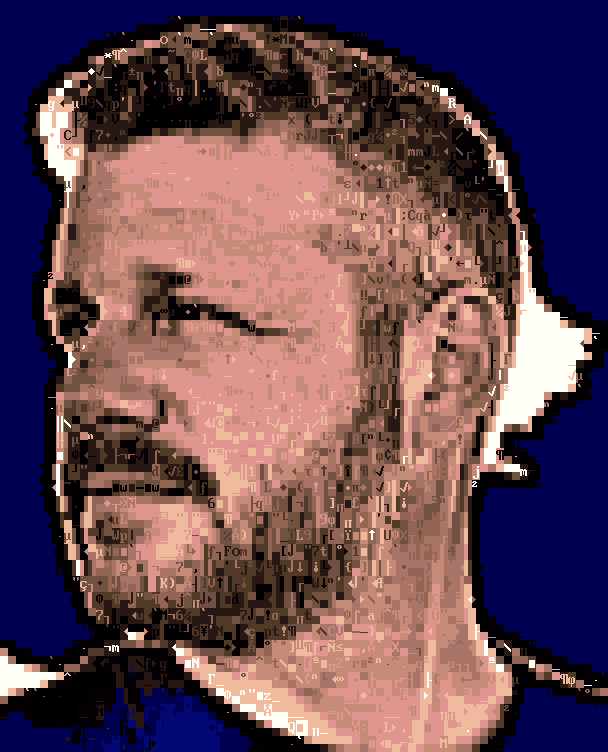
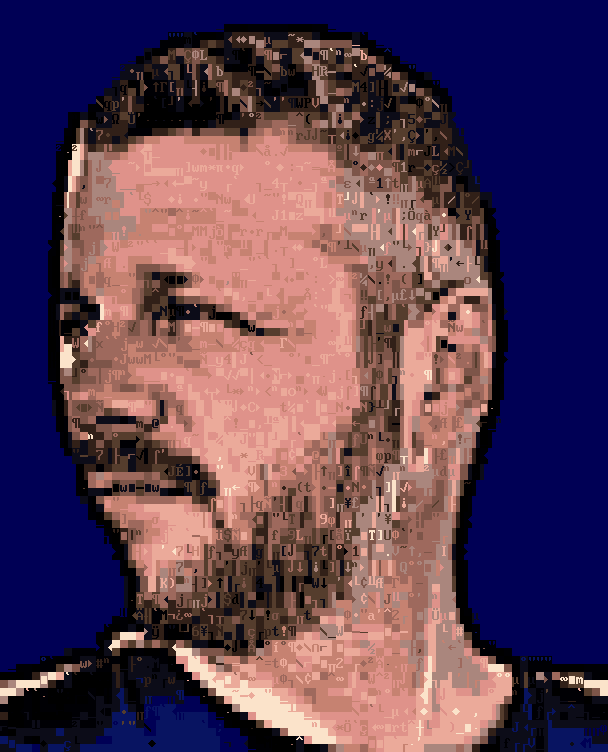
fix(portrait): trace the subject by hand, because nothing else can separate it
Four automatic approaches, four failures, all on the same fact. Measured on
this frame - blue minus red, and luminance:

    open sky              +91   151
    glare wedge, jaw      +13   194
    glare streak, hair    -12   146
    backlit hair itself    ~0   150
    cheek                 -41    91

A colour threshold separates sky from skin by a mile and misses BOTH glare
regions: the wedge is nearly neutral and the streak is warm, on the skin side
of any colour test. Brightness does catch the glare, and catches the backlit
hair with it, because they are the same brightness - that version removed
every white pixel and took a notch out of the back of his head doing it.
Loosening the colour test to reach the wedge at +13 pulled in the hair and the
shirt, which both reflect blue skylight.

In this photograph the glare is not separable from the subject by colour or by
brightness. That is a property of the picture, not a tuning problem, and no
further threshold was going to find it.

So the silhouette is traced by hand against a coordinate grid, once, and
committed as data. The photograph does not change, so a tracing is exact where
a heuristic has to keep being right about input it will never see again.

White pixels: 0.00% of the render, from 3.89%.

The mask was checked as an OVERLAY on the photograph before anything was
rendered - which is what should have happened several attempts ago. Every
earlier failure was visible in the mask and I was looking at the output.
[…]

diff --git a/design/portrait.py b/design/portrait.py
@@ -1,34 +1,74 @@
 #!/usr/bin/env python3
 """Prepares the sysop portrait for the ANSI quantiser.
 
-Kept in the repo because the result is committed and nobody can reproduce a
-hand-edited PNG. Run from the repo root:
+Committed because the result is a committed PNG and nobody can reproduce a
+hand-edited one. Run from the repo root:
 
-    python3 design/portrait.py <source.jpg>
+    python3 design/portrait.py
 
-WHY THE BACKGROUND IS SEGMENTED AND NOT JUST DARKENED.
+WHY THE SUBJECT IS TRACED BY HAND.
 
-The photograph is backlit against a bright sky. A first attempt keyed the
-background on "blue channel beats red", which caught the sky and missed the
-sun's rim light around the head - that came out as a white halo, because it
-is bright and NOT blue-dominant, so the colour test had no opinion on it.
+The photograph is backlit: the sun is directly behind his head, so it burns
+through beside the hair and along the jaw. Four automatic approaches were
+tried and every one failed on the same fact.
 
-A flood fill from the border catches it. The background is connected to the
-edge of the frame and the head is not, so a fill that spreads through
-anything bright reaches the halo and stops at the hair, wherever the colour
-test alone would have given up.
+Measured on this frame - blue minus red, and luminance:
+
+    open sky              +91   151
+    glare wedge, jaw      +13   194
+    glare streak, hair    -12   146
+    backlit hair itself    ~0   150
+    cheek                 -41    91
+
+A colour threshold separates sky from skin with an enormous margin, and
+misses both glare regions: the wedge is nearly neutral and the streak is
+WARM, on the skin side of any colour test. A brightness threshold does
+catch the glare - and catches the backlit hair with it, because they are
+the same brightness. Growing the background into bright pixels removed
+every white pixel and took a notch out of the back of the head doing it.
+Loosening the colour test to reach the wedge at +13 pulled in the hair and
+the shirt, both of which reflect blue skylight.
+
+There is no threshold that separates them, because in this photograph they
+are not separable by colour or by brightness. So the silhouette is traced
+by hand, once. The photograph does not change, and the tracing is data
+rather than a guess that has to hold on unseen input.
 """
 
 import sys
-from collections import deque
 
 import numpy as np
-from PIL import Image, ImageEnhance, ImageFilter, ImageOps
+from PIL import Image, ImageDraw, ImageEnhance, ImageFilter, ImageOps
+
+# The region of the original the portrait is taken from.
+CROP = (190, 50, 590, 545)
+
+# The subject silhouette, in cropped coordinates, traced against a
+# coordinate grid over the photograph. Head, ear, beard and shoulders in;
+# sky and glare out.
+SUBJECT = [
+    (46, 108), (56, 74), (78, 50), (112, 32), (150, 24), (196, 22),
+    (232, 30), (262, 46), (288, 68), (304, 94), (314, 124), (319, 155),
+    (322, 190), (325, 224), (322, 258), (313, 290), (303, 324), (297, 362),
+    (299, 402), (310, 428), (336, 440), (400, 448),
+    (400, 495), (0, 495),
+    (0, 452), (38, 442), (68, 430), (88, 408), (92, 380), (78, 350),
+    (58, 318), (46, 285), (41, 250), (39, 215), (40, 180), (42, 148),
+    (44, 126),
+]
 
 # A deep navy. Bright blue competes with the subject for attention and eats
-# a palette entry that the face wants; dark enough and it reads as a ground
-# rather than as a colour.
+# a palette entry the face wants; dark enough and it reads as a ground.
 BACKGROUND = (10, 16, 66)
+
+
+def _box(x, r, axis):
+    """One box-blur pass along an axis, by cumulative sum."""
+    x = np.moveaxis(x, axis, 0)
+    pad = np.pad(x, ((r + 1, r), (0, 0)), mode="edge")
+    c = np.cumsum(pad, axis=0)
+    out = (c[2 * r + 1 :] - c[: -(2 * r + 1)]) / (2 * r + 1)
+    return np.moveaxis(out, 0, axis)
 
 
 def local_tone_map(img, subject, base_blur=34.0, base=0.52, detail=1.5):
@@ -36,22 +76,22 @@ def local_tone_map(img, subject, base_blur=34.0, base=0.52, detail=1.5):
 
     THIS IS WHAT THE EAR NEEDED. It is sunlit and sits about 68 levels
     brighter than the cheek, so under k-means it forms its own bright
-    cluster, takes its own palette entries, and renders as a flat slab. It
-    is not actually featureless - the folds are clearly there in the source -
-    but that structure is small compared with the ear's overall offset from
-    the face, so every global tool missed it.
-    
-    A global highlight rolloff cannot fix that: pulling the top of the range
-    down drags the ear's detail down with it and flattens the real highlights
-    everywhere else, which is exactly what happened and why the picture went
-    dull. The quantiser's own unsharp boosts local contrast but leaves the
-    offset untouched, so the ear stayed a separate bright cluster.
-    
+    cluster, claims its own palette entries, and renders as a flat slab. It
+    is not featureless - the folds are plainly there in the source - but
+    that structure is small compared with the ear's OFFSET from the face, so
+    every global tool missed it.
+
+    A global highlight rolloff cannot fix it: pulling the top of the range
+    down drags the ear's detail with it and flattens real highlights
+    everywhere else, which is why an earlier version went dull with the slab
+    still in it. The quantiser's own unsharp lifts local detail but leaves
+    the offset alone, so the ear stayed a separate bright cluster - measured
+    at 13 distinct colours either way.
+
     Splitting luminance into a blurred BASE and the residual DETAIL lets the
     two be treated separately: squash the base so the ear sits nearer the
-    face and stops claiming its own palette entries, and lift the detail so
-    the folds survive the squashing. Colour is carried by scaling, so hue is
-    untouched.
+    face, and lift the detail so the folds survive the squashing. Colour is
+    carried by scaling, so hue is untouched.
     """
     a = np.asarray(img).astype(np.float32)
     lum = np.maximum(a.mean(2), 1.0)
@@ -66,180 +106,35 @@ def local_tone_map(img, subject, base_blur=34.0, base=0.52, detail=1.5):
     b = blur(lum)
     d = lum - b
     pivot = float(np.median(lum[subject])) if subject.any() else float(np.median(lum))
-    out_lum = pivot + (b - pivot) * base + d * detail
-    out_lum = np.clip(out_lum, 1.0, 255.0)
-
-    scaled = a * (out_lum / lum)[..., None]
-    return Image.fromarray(np.clip(scaled, 0, 255).astype(np.uint8))
-
-
-def _box(x, r, axis):
-    """One box-blur pass along an axis, by cumulative sum."""
-    x = np.moveaxis(x, axis, 0)
-    pad = np.pad(x, ((r + 1, r), (0, 0)), mode="edge")
-    c = np.cumsum(pad, axis=0)
-    out = (c[2 * r + 1 :] - c[: -(2 * r + 1)]) / (2 * r + 1)
-    return np.moveaxis(out, 0, axis)
-
-
-def recover_chroma(img, subject, chroma_floor=32, blur=70.0):
-    """Rebuilds colour in blown highlights from the skin around them.
-
-    THE BLOB WAS A CHROMA PROBLEM, NOT A TONE ONE. The sun is behind him, so
-    the rim along the jaw and neck clips - and clipping destroys colour, not
-    just level: that region measured RGB (226,226,224), which is neutral,
-    against skin at (156,111,106). Rolling the highlights off made it darker
-    and just as grey, so the palette still spent an entry on a big flat
-    desaturated patch and it still read as a lump stuck to his face.
-
-    Pushing those pixels toward one median skin hue does not work either -
-    it trades a grey flat patch for a warm flat patch. What works is taking
-    the colour from the skin ADJACENT to each blown area and leaving the
-    luminance alone.
-
-    That is done here by normalised convolution: blur the colour of the
-    valid pixels, blur the validity mask itself, and divide. Valid
-    neighbours therefore vote in proportion to how close they are, and the
-    blown region never votes on its own colour.
-
-    THE RADIUS HAS TO EXCEED THE HOLE. A first attempt used 18 pixels on a
-    patch about 66 across, so the middle of it received almost no vote from
-    real skin, the normalised result came out near zero, and the centre
-    stayed exactly as neutral as before - a fix that worked only on the
-    edges of the thing it was meant to remove.
-    """
-    a = np.asarray(img).astype(np.float32)
-    lum = a.mean(2)
-    chroma = a.max(2) - a.min(2)
-
-    # The ear and the skin behind the jaw measure chroma about 26 against
-    # 39-45 for ordinary skin, so the floor sits between them at 32.
-    blown = subject & (chroma < chroma_floor) & (lum > np.percentile(lum[subject], 60))
-    if not blown.any():
-        return img
-
-    valid = subject & ~blown
-    # Colour carried as an offset from luminance, so propagating it cannot
-    # drag the brightness around with it.
-    offset = a - lum[..., None]
-
-    # PIL will not blur a float image, and rounding to 8-bit first would
-    # throw away the small offsets this is trying to propagate. Three box
-    # passes approximate a Gaussian closely enough and run on floats.
-    def smear(x):
-        out = x.astype(np.float32)
-        r = max(1, int(blur))
-        for _ in range(3):
-            out = _box(_box(out, r, 0), r, 1)
-        return out
-
-    weight = smear(valid.astype(np.float32))
-    spread = np.dstack([smear(offset[..., c] * valid) for c in range(3)])
-    near = spread / np.maximum(weight, 1e-4)[..., None]
-
-    # Feather the edge of the repair so it does not leave a seam.
-    soft = smear(blown.astype(np.float32))
-    w = np.clip(soft * 1.6, 0, 1)[..., None] * blown[..., None]
-
-    fixed = lum[..., None] + offset * (1 - w) + near * w
-    print(f"  chroma recovered over {100 * blown.mean():.1f}% of frame")
-    return Image.fromarray(np.clip(fixed, 0, 255).astype(np.uint8))
+    out_lum = np.clip(pivot + (b - pivot) * base + d * detail, 1.0, 255.0)
+    return Image.fromarray(np.clip(a * (out_lum / lum)[..., None], 0, 255).astype(np.uint8))
 
 
 def prepare(src_path, out_path):
     src = Image.open(src_path).convert("RGB")
-    crop = src.crop((190, 50, 590, 545))
+    crop = src.crop(CROP)
     crop = ImageOps.autocontrast(crop, cutoff=1)
-    # Lift the shadowed face without blowing the sky.
+    # Lift the shadowed face. The gamma is generous because the sky it used
+    # to have to protect is masked out rather than tone-mapped.
     crop = Image.eval(crop, lambda v: int(255 * ((v / 255) ** 0.70)))
 
-    a = np.asarray(crop).astype(np.int16)
-    r, b = a[..., 0].astype(int), a[..., 2].astype(int)
+    mask = Image.new("L", crop.size, 0)
+    ImageDraw.Draw(mask).polygon(SUBJECT, fill=255)
+    # Feather by a pixel so the edge does not stair-step against the ground.
+    mask = mask.filter(ImageFilter.GaussianBlur(0.8))
+    subject = np.asarray(mask) > 127
 
-    # MEASURED, not guessed. Sampling the frame gives blue-minus-red of
-    # about +91 across the sky and NEGATIVE everywhere on the subject:
-    # forehead -50, cheek -53, beard -35, shirt -39, and the darkest fringe
-    # beside the hair -6. So one channel-difference threshold separates them
-    # with enormous margin, and +20 sits in the middle of a 26-point gap.
-    #
-    # An earlier version also treated "bright and almost colourless" as
-    # background, reasoning that the sun's rim light is white. It is - and so
-    # is sunlit skin, so the flood fill walked through the rim light into the
-    # face and ate half of it. The extra clause bought nothing the channel
-    # difference did not already have.
-    passable = (b - r) > 20
-
-    h, w = passable.shape
-    bg = np.zeros((h, w), bool)
-    q = deque()
-    for x in range(w):
-        for y in (0, h - 1):
-            if passable[y, x]:
-                q.append((y, x))
-                bg[y, x] = True
-    for y in range(h):
-        for x in (0, w - 1):
-            if passable[y, x]:
-                q.append((y, x))
-                bg[y, x] = True
-
-    while q:
-        y, x = q.popleft()
-        for dy, dx in ((1, 0), (-1, 0), (0, 1), (0, -1)):
-            ny, nx = y + dy, x + dx
-            if 0 <= ny < h and 0 <= nx < w and passable[ny, nx] and not bg[ny, nx]:
-                bg[ny, nx] = True
-                q.append((ny, nx))
-
-    # Close pinholes, then pull the subject edge in by a pixel.
-    #
-    # The white fringe around the head was never sky OR subject: it is the
-    # blend between them, so its channel difference lands between the two
-    # and no threshold catches it. Eroding by one pixel sends that ring to
-    # the background, which is where it belongs.
-    mask = Image.fromarray(((~bg) * 255).astype(np.uint8))
-    mask = mask.filter(ImageFilter.MedianFilter(5))
-    mask = mask.filter(ImageFilter.MinFilter(3))
-
-    subject_mask = np.asarray(mask).astype(bool)
-    crop = local_tone_map(crop, subject_mask)
-    crop = recover_chroma(crop, subject_mask)
+    crop = local_tone_map(crop, subject)
     out = Image.composite(crop, Image.new("RGB", crop.size, BACKGROUND), mask)
 
-    # Roll the highlights off before quantising.
-    #
-    # The sun is behind him, so the rim along the jaw and shoulder clips to
-    # white in the source. Sixteen colours have nothing between "bright
-    # skin" and "white", so a clipped region lands entirely on white and
-    # reads as a blob stuck to his face rather than as light. Compressing
-    # the top of the range gives the quantiser something to grade across.
-    # NO HEAVY HIGHLIGHT ROLLOFF. An earlier version put the knee at the
-    # subject's p90 with a hard ratio, which squeezed p95 and p99 - 151 and
-    # 176 - into a ten-level band. It did not remove the pale patch, because
-    # that was a chroma problem, and it flattened every real highlight in the
-    # picture on the way past. The result was a dull portrait with the blob
-    # still in it.
-    #
-    # A gentle knee near the top of the range is enough to stop the very
-    # brightest pixels clipping to the palette's white entry.
-    a2 = np.asarray(out).astype(np.float32)
-    subject = np.asarray(mask).astype(bool)
-    knee = float(np.percentile(a2.mean(2)[subject], 99))
-    over = np.clip(a2 - knee, 0, None)
-    a2 = np.minimum(a2, knee) + over * 0.7
-    out = Image.fromarray(np.clip(a2, 0, 255).astype(np.uint8))
-
-    # Lift it. The gamma and autocontrast above are set to protect the sky,
-    # which is now gone, so the subject alone can carry more brightness.
+    # Compressing the base costs global contrast, so some goes back on after.
+    # This order matters: a contrast lift applied first would clip the ear
+    # structure the tone map just recovered.
     out = ImageEnhance.Brightness(out).enhance(1.18)
-    # Compressing the base costs global contrast, so some goes back on
-    # afterwards. Doing it this way round keeps the ear's structure, which
-    # a global contrast lift on its own would have clipped straight off.
     out = ImageEnhance.Contrast(out).enhance(1.32)
     out = ImageEnhance.Color(out).enhance(1.10)
     out.save(out_path)
-    covered = 100 * bg.mean()
-    print(f"{out_path}  background {covered:.0f}% of frame")
+    print(f"{out_path}  subject {100 * subject.mean():.0f}% of frame")
 
 
 if __name__ == "__main__":
